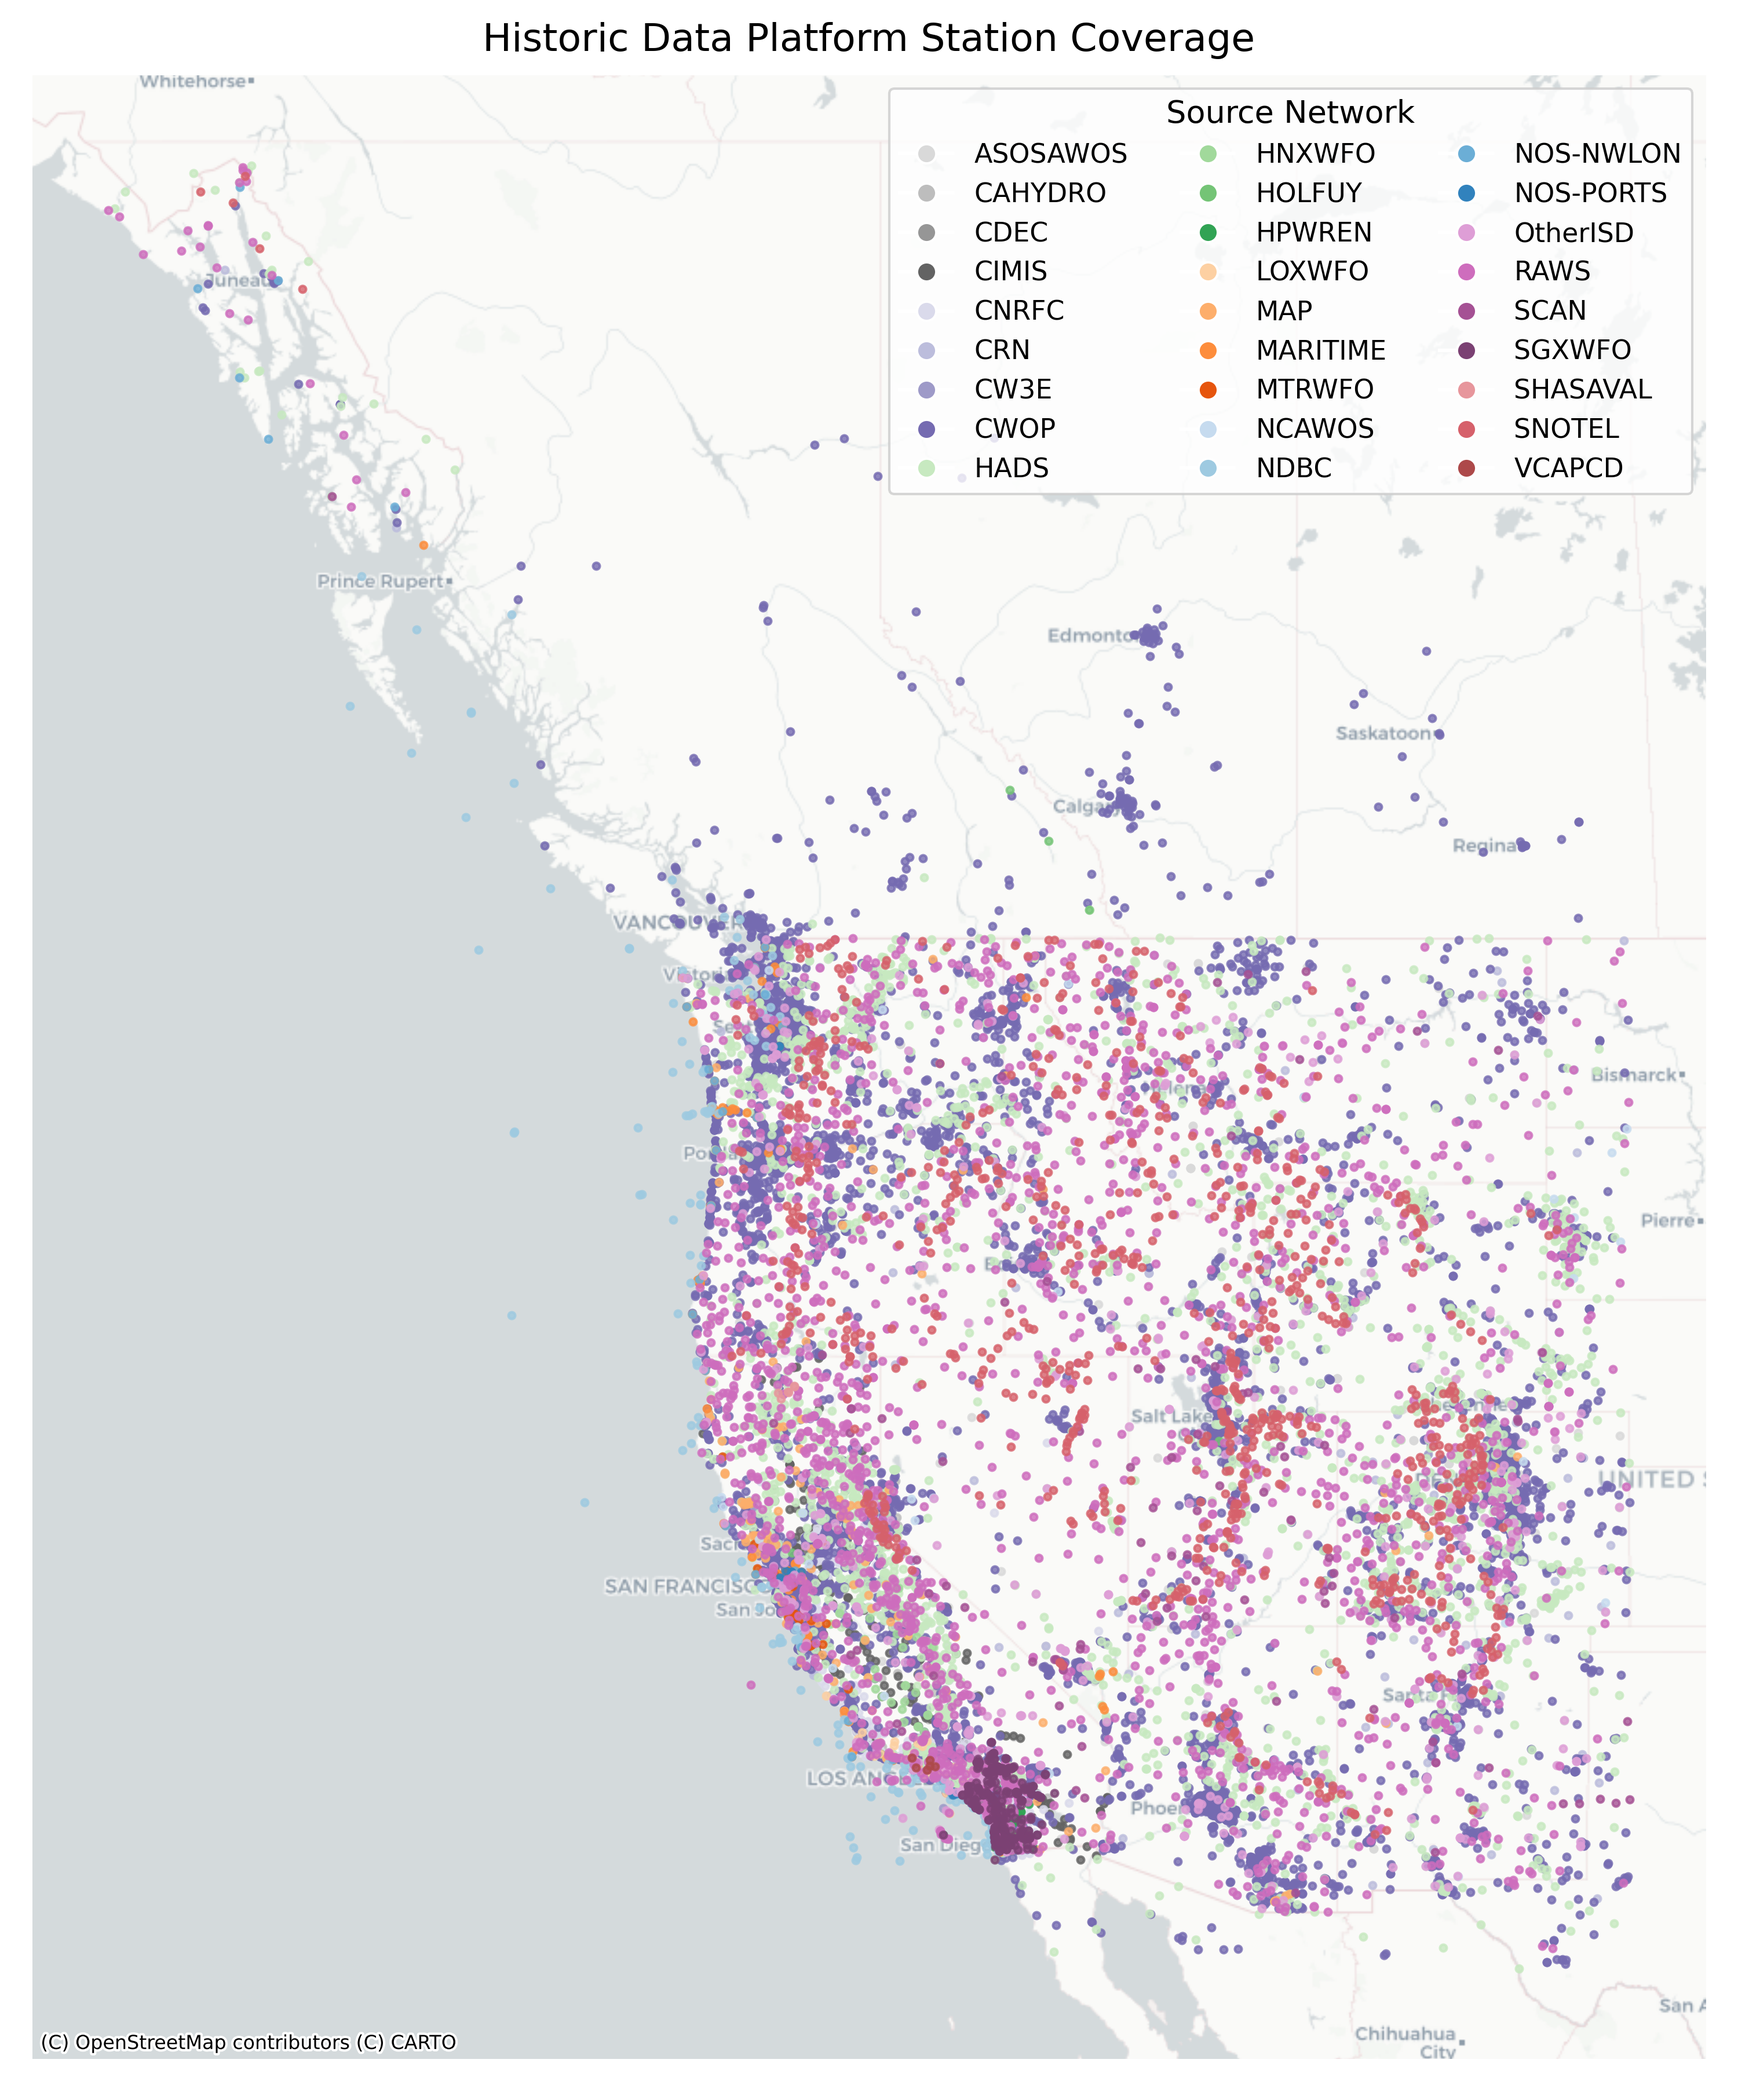
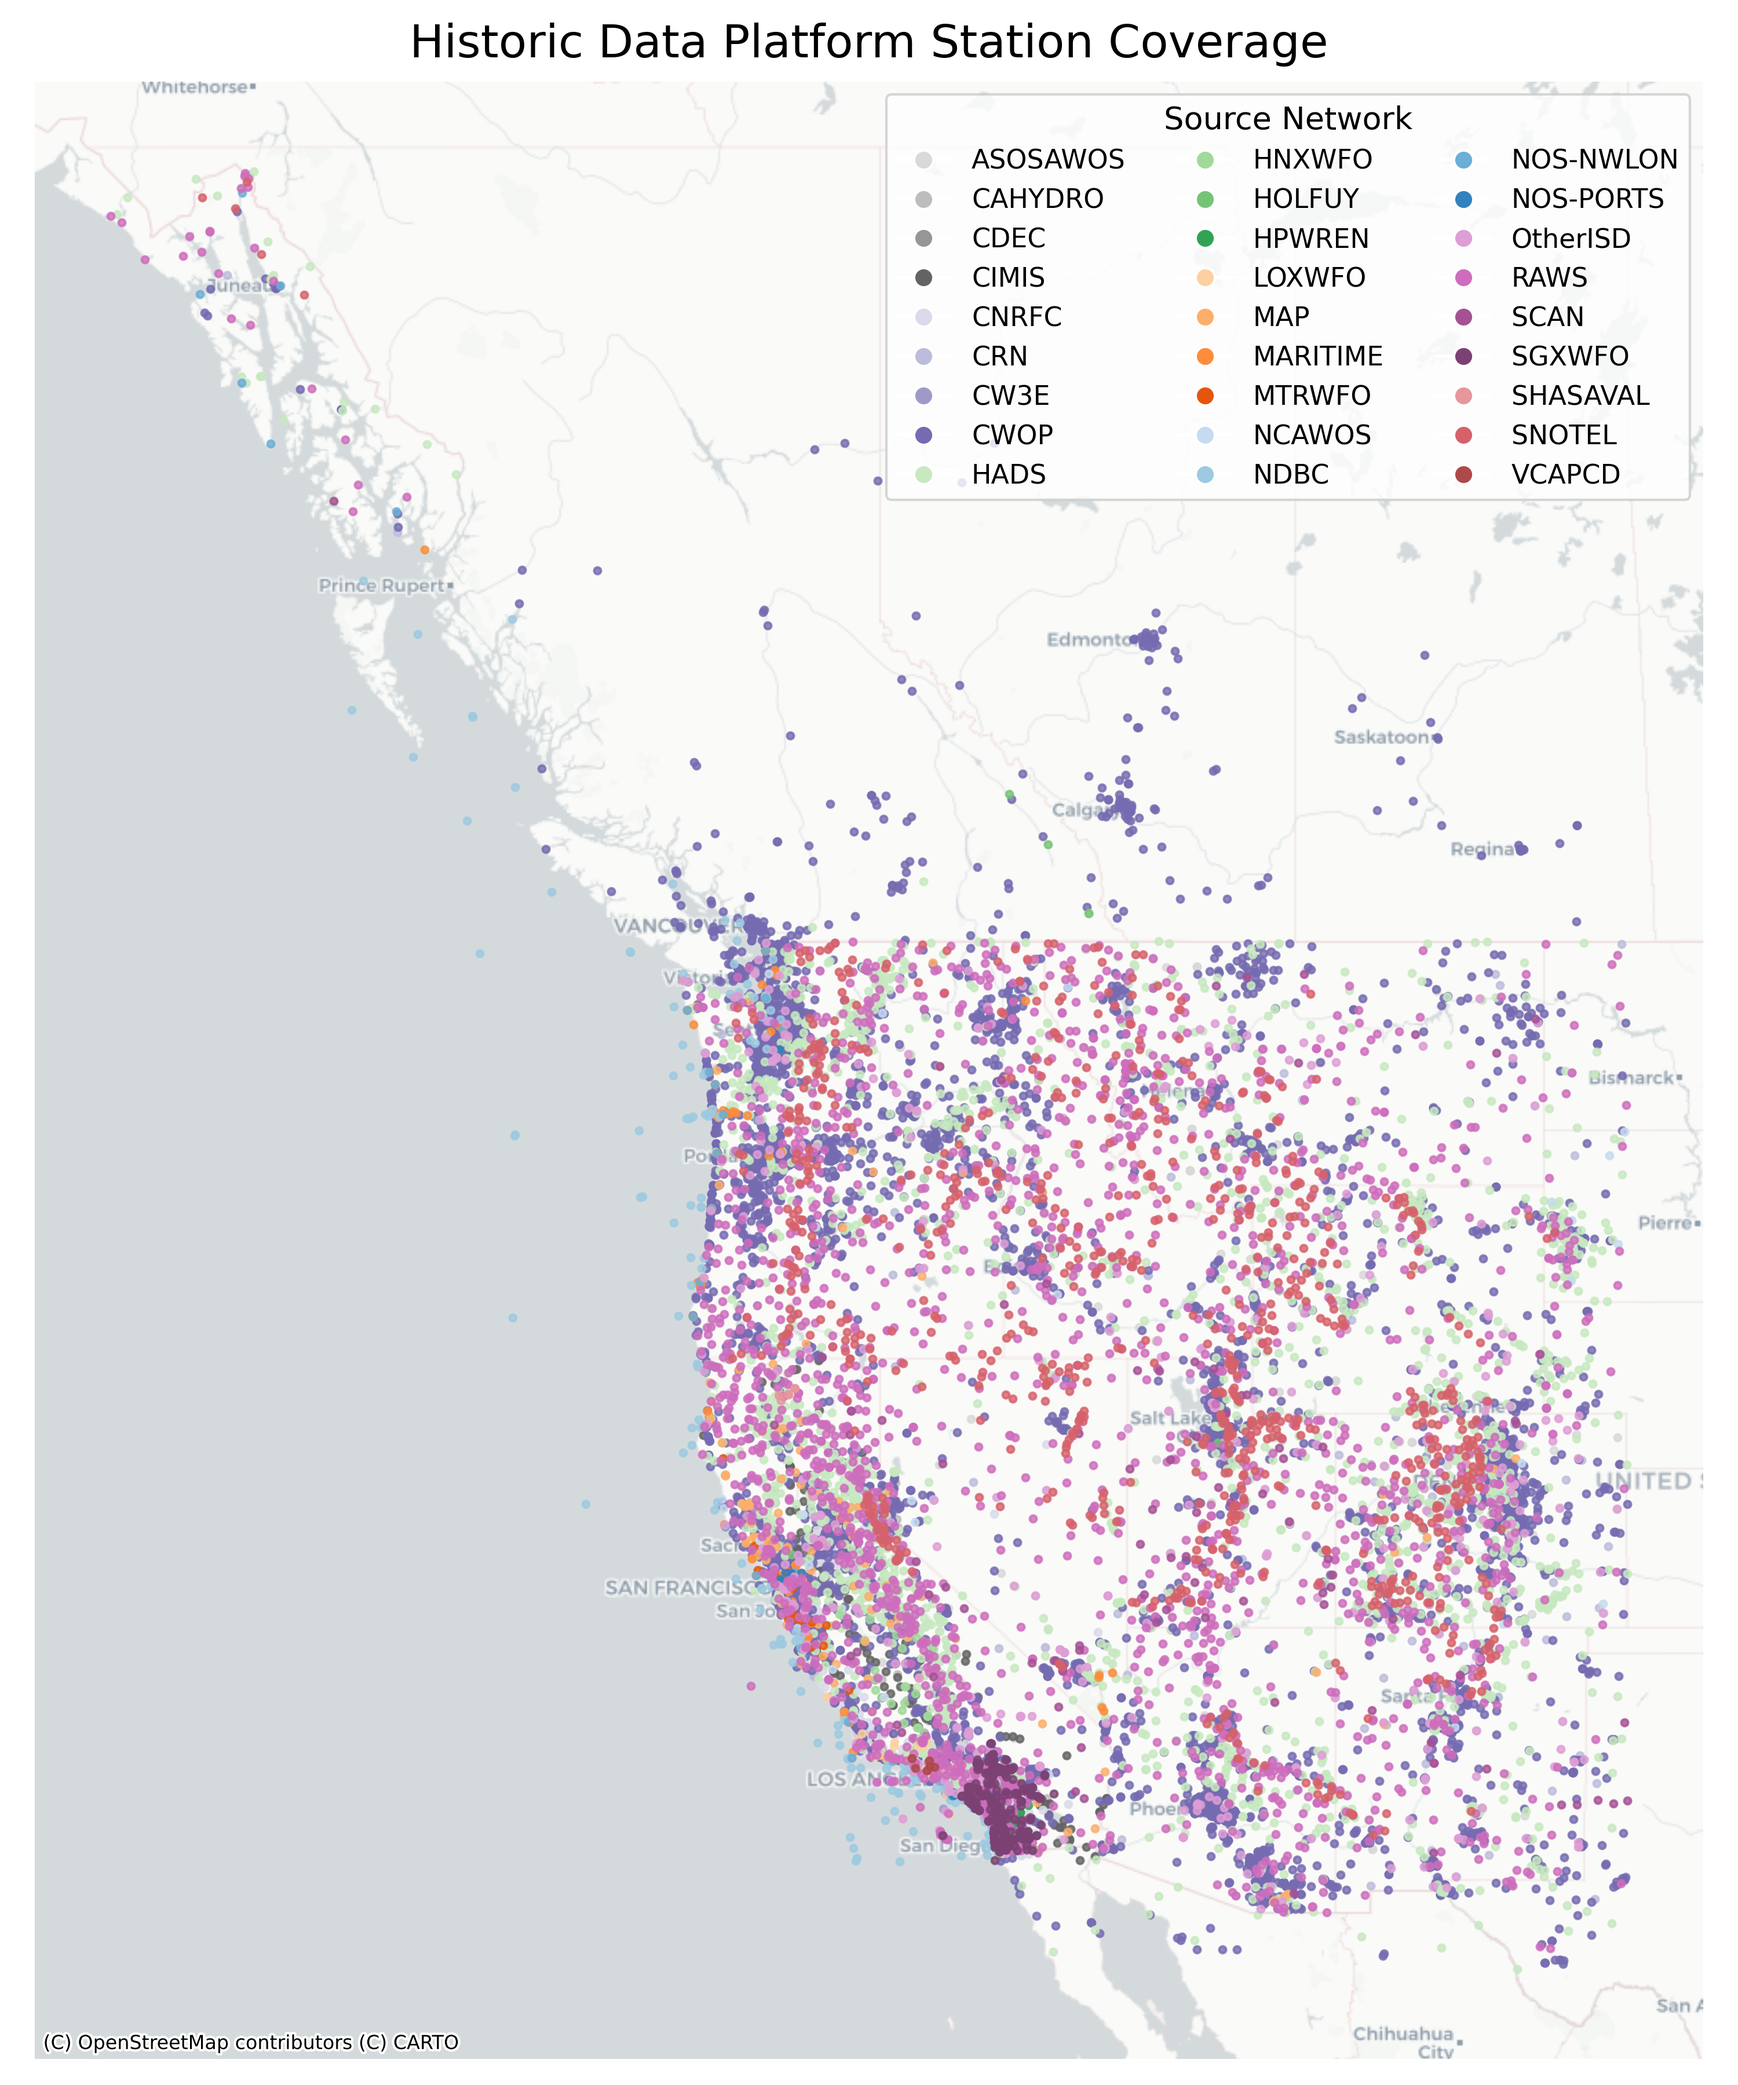
adjust title size

diff --git a/scripts/misc/stations_coverage_figure.py b/scripts/misc/stations_coverage_figure.py
@@ -170,7 +170,7 @@ def create_map(stations_gdf, colors_dict, fig_filepath, dpi=300):
     ctx.add_basemap(ax, source=ctx.providers.CartoDB.Positron)
 
     # Set title and remove axis
-    ax.set_title("Historic Data Platform Station Coverage", fontsize=16, pad=10)
+    ax.set_title("Historic Data Platform Station Coverage", fontsize=19, pad=10)
     ax.axis("off")
 
     # Save
